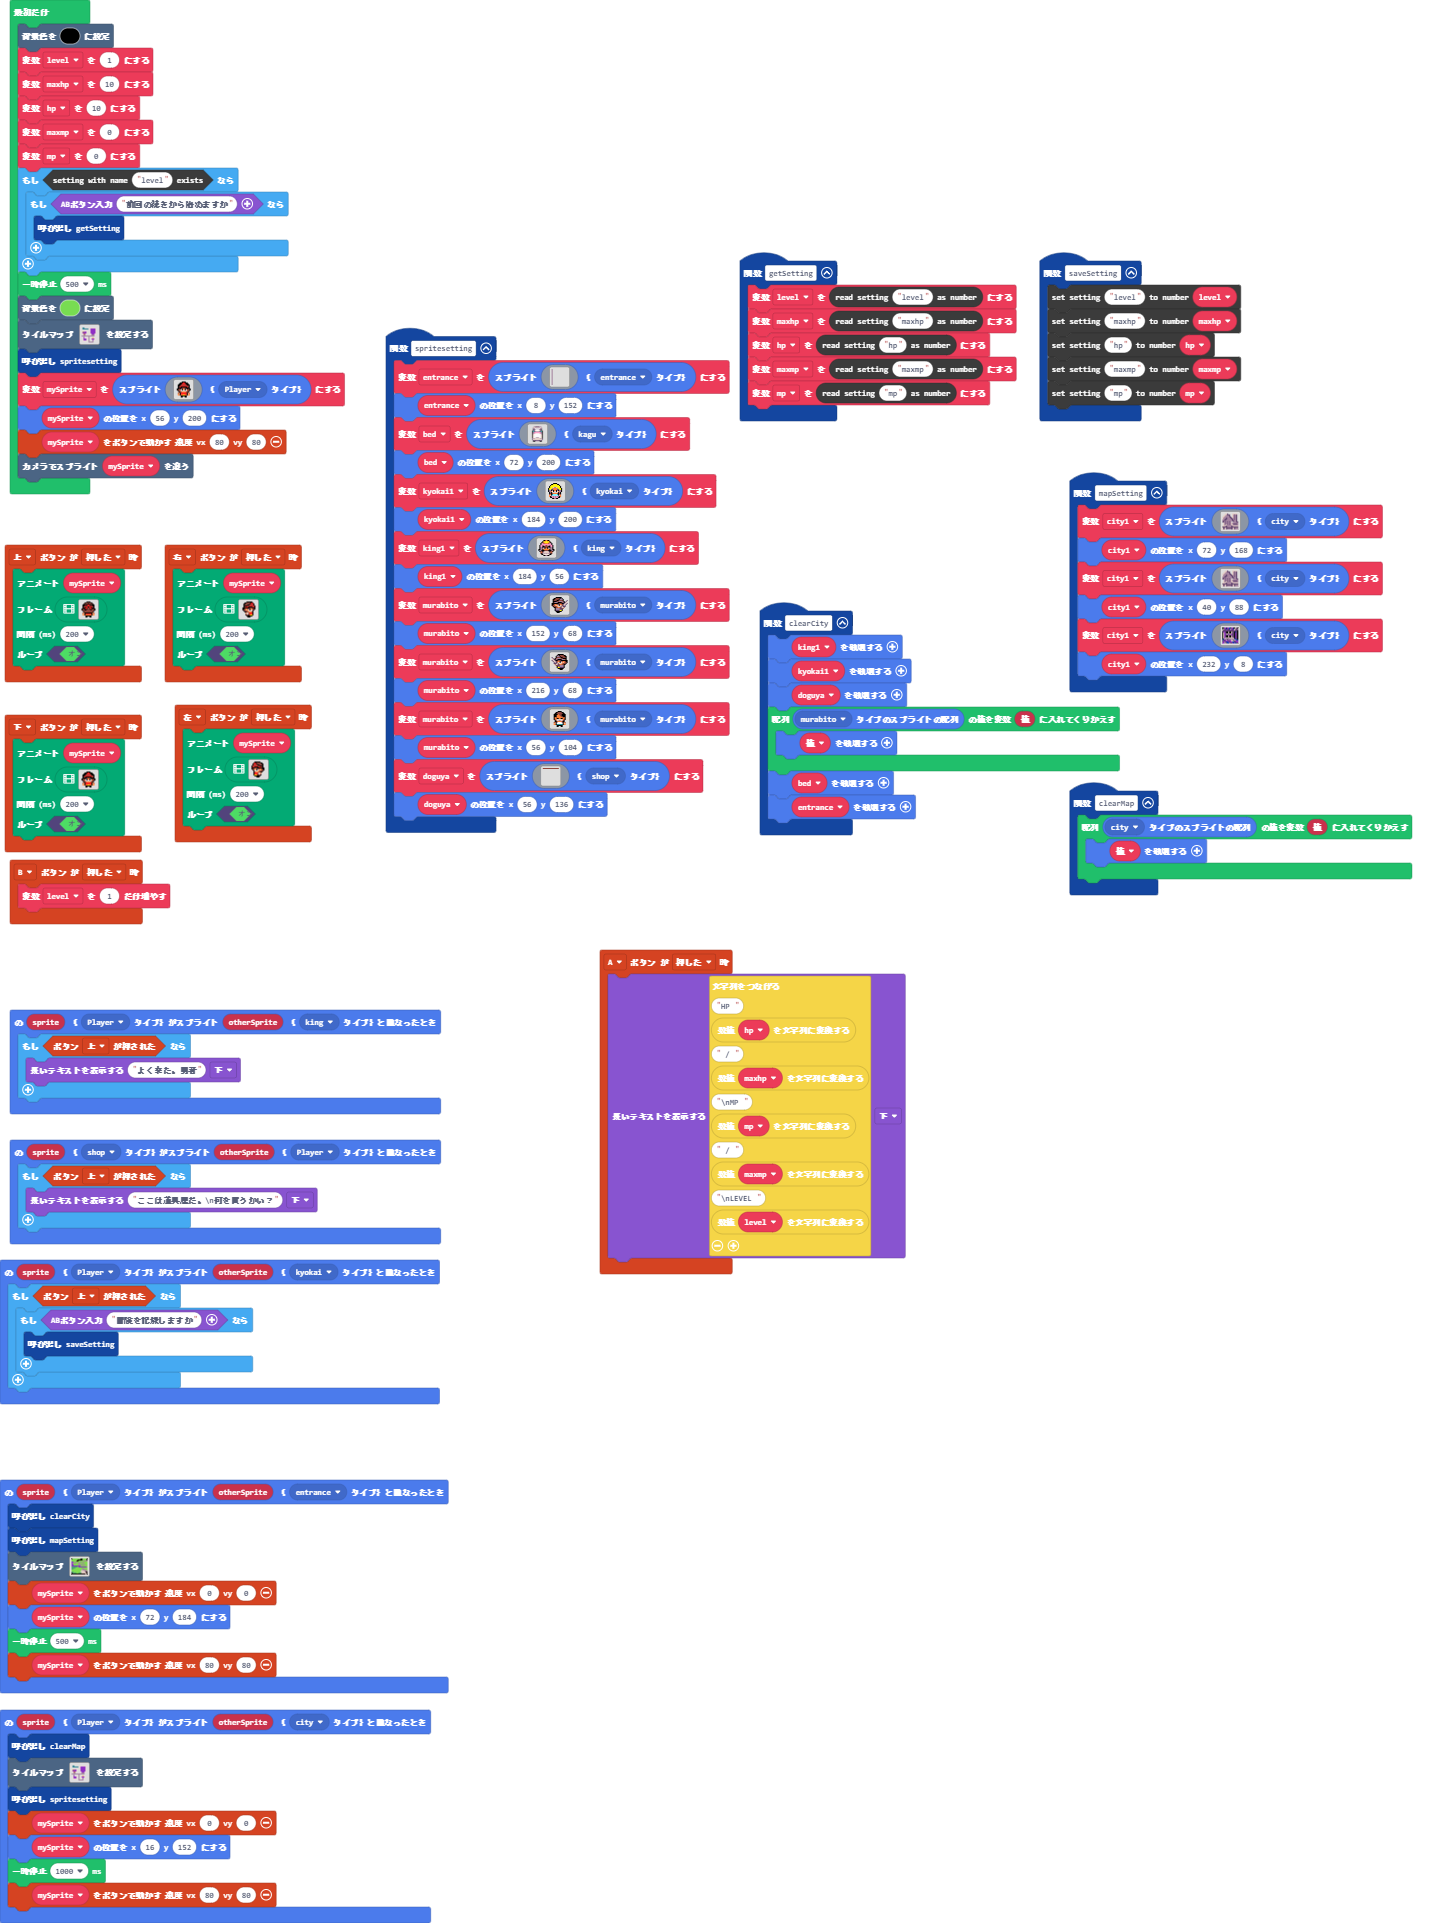
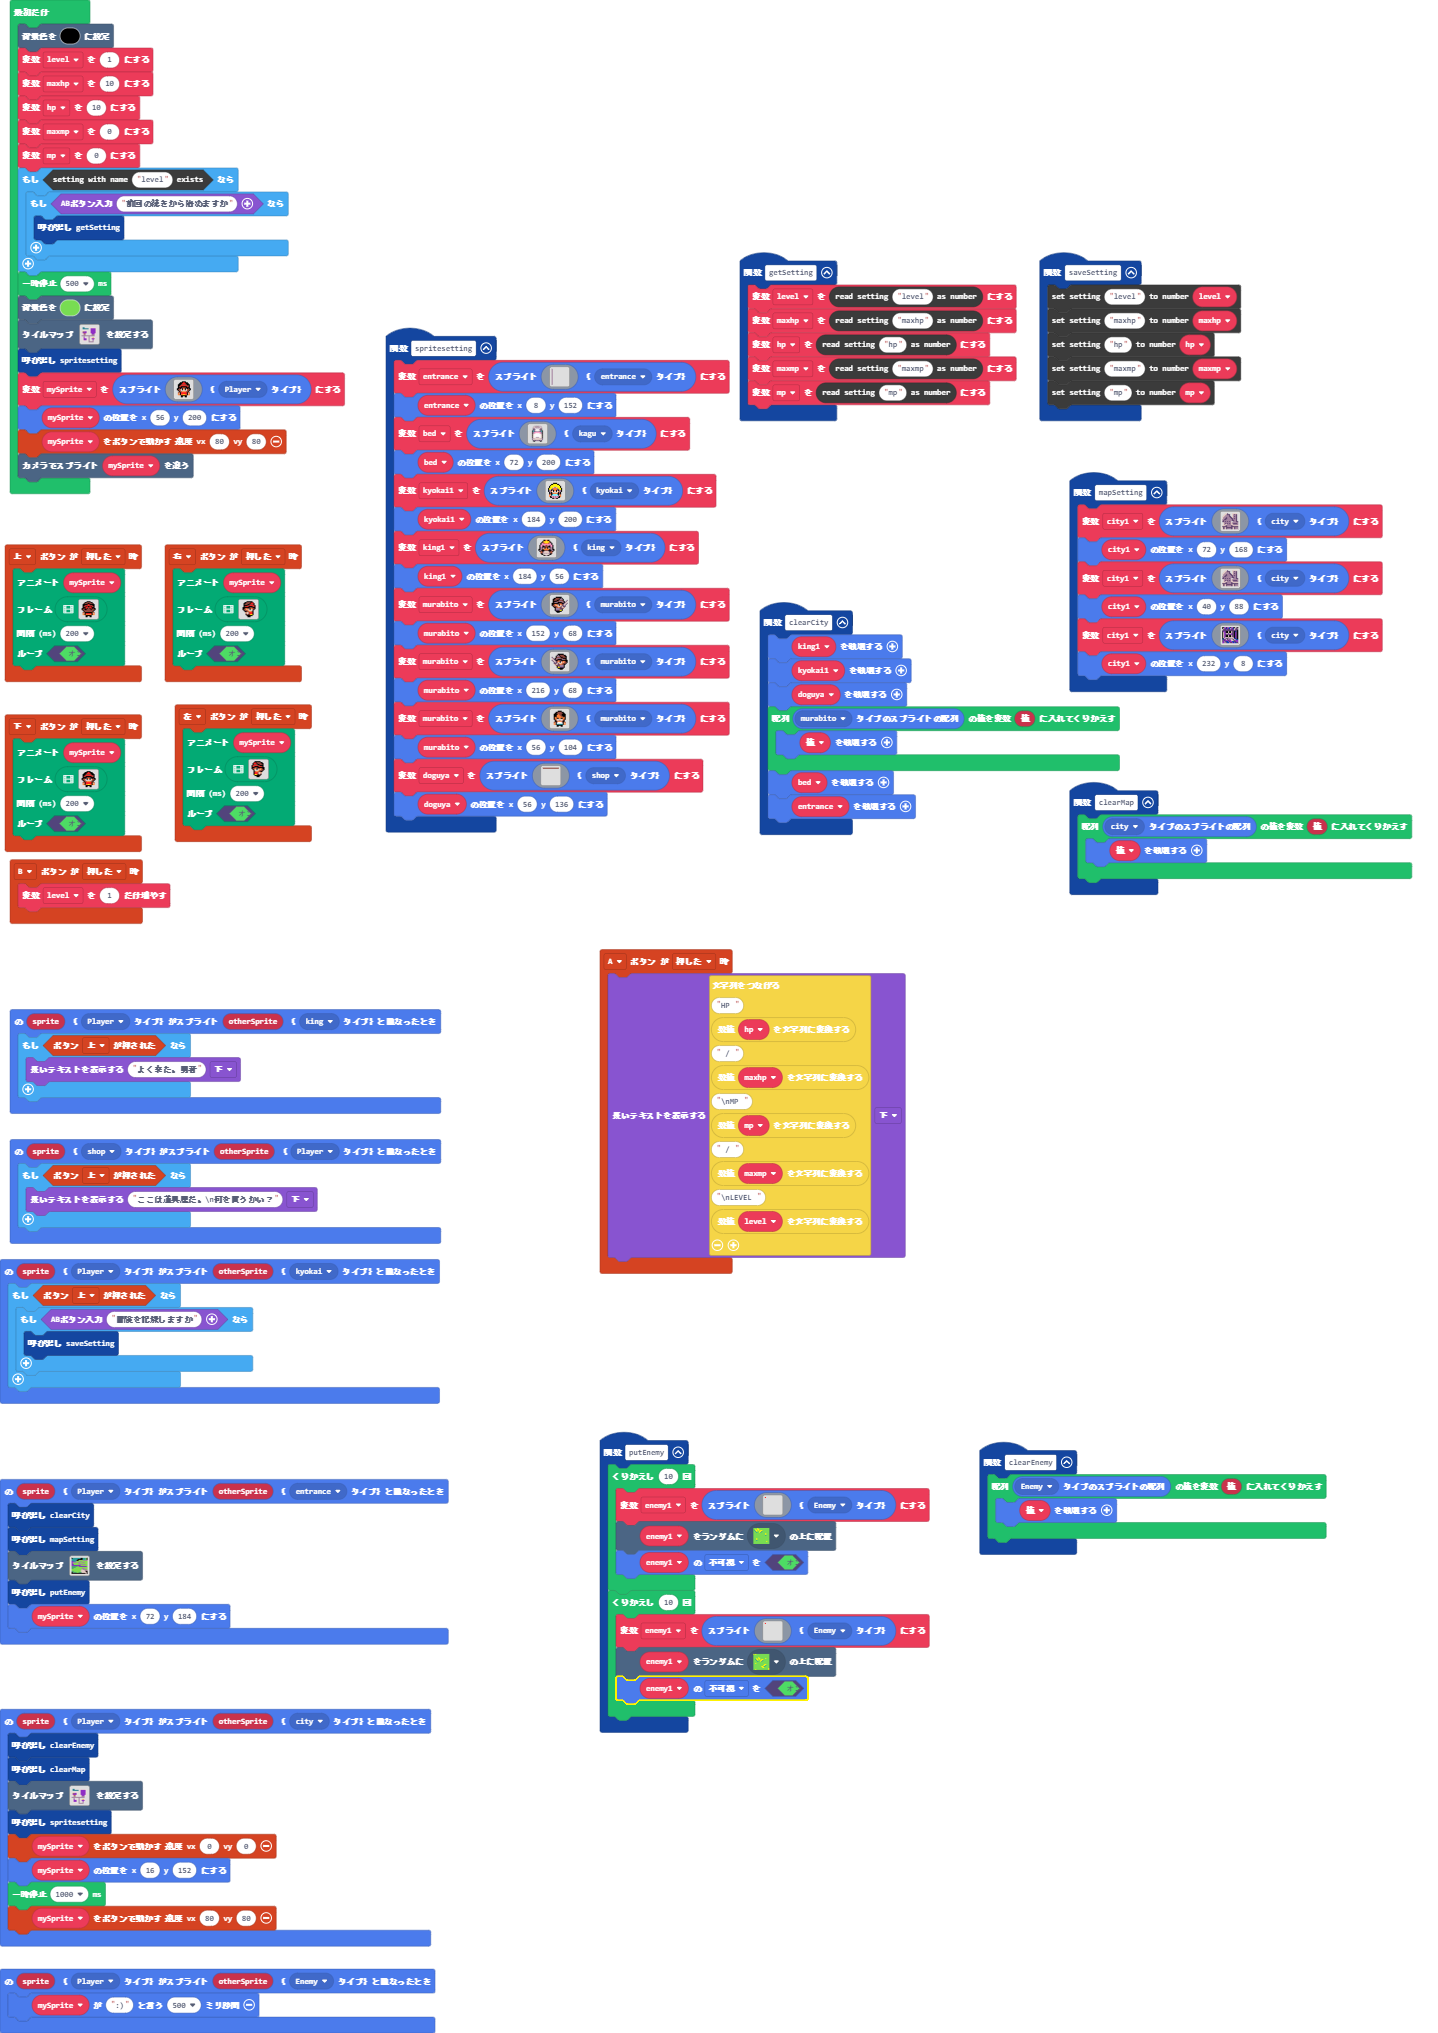
更新 main.blocks, main.ts, tilemap.g.jres, tilemap.g.ts

Changed region(s): [[0.0, 0.0, 0.9791, 1.0], [0.3978, 0.468, 0.6426, 0.8736], [0.6732, 0.6864, 0.9179, 0.78]]

diff --git a/tilemap.g.ts b/tilemap.g.ts
@@ -49,8 +49,27 @@ namespace myTiles {
 . . . . . . . . . . . . . . . . 
 . . . . . . . . . . . . . . . . 
 `, [myTiles.transparency16], TileScale.Sixteen);
+            case "レベル4":
+            case "レベル4":return tiles.createTilemap(hex`1000100000000000000000000000000000000000000000000000000000000000000000000000000000000000000000000000000000000000000000000000000000000000000000000000000000000000000000000000000000000000000000000000000000000000000000000000000000000000000000000000000000000000000000000000000000000000000000000000000000000000000000000000000000000000000000000000000000000000000000000000000000000000000000000000000000000000000000000000000000000000000000000000000000000000000000000000000000000000000000000000000000000000000000000000000000000000`, img`
+. . . . . . . . . . . . . . . . 
+. . . . . . . . . . . . . . . . 
+. . . . . . . . . . . . . . . . 
+. . . . . . . . . . . . . . . . 
+. . . . . . . . . . . . . . . . 
+. . . . . . . . . . . . . . . . 
+. . . . . . . . . . . . . . . . 
+. . . . . . . . . . . . . . . . 
+. . . . . . . . . . . . . . . . 
+. . . . . . . . . . . . . . . . 
+. . . . . . . . . . . . . . . . 
+. . . . . . . . . . . . . . . . 
+. . . . . . . . . . . . . . . . 
+. . . . . . . . . . . . . . . . 
+. . . . . . . . . . . . . . . . 
+. . . . . . . . . . . . . . . . 
+`, [myTiles.transparency16], TileScale.Sixteen);
             case "レベル2":
[2 lines of base64/hex data omitted]
 2 . . . . . . . . 2 2 . . . . 2 
 . . . . . . 2 2 2 2 2 . . . . 2 
 . . . . . 2 2 . . . . 2 2 2 2 2 
@@ -67,7 +86,7 @@ namespace myTiles {
 . . . . . . . . . . . . . . 2 2 
 2 . . . . . . . . . . . . . . 2 
 2 2 2 2 2 2 2 2 2 2 2 2 2 2 . 2 
-`, [myTiles.transparency16,sprites.swamp.swampTile7,sprites.swamp.swampTile8,sprites.swamp.swampTile12,sprites.swamp.swampTile9,sprites.dungeon.stairNorth,sprites.castle.tileGrass1,sprites.castle.tileGrass3,sprites.castle.tilePath5,sprites.castle.rock0,sprites.swamp.swampTile5,sprites.swamp.swampTile6,myTiles.tile3,sprites.builtin.forestTiles0,sprites.builtin.forestTiles1,sprites.builtin.forestTiles10,sprites.builtin.forestTiles5,sprites.builtin.forestTiles6,sprites.builtin.forestTiles4,sprites.castle.tilePath1,sprites.castle.tilePath4,sprites.builtin.forestTiles9,sprites.builtin.forestTiles7,sprites.builtin.forestTiles15,sprites.builtin.forestTiles13,sprites.builtin.forestTiles11], TileScale.Sixteen);
+`, [myTiles.transparency16,sprites.swamp.swampTile7,sprites.swamp.swampTile8,sprites.swamp.swampTile12,sprites.swamp.swampTile9,sprites.dungeon.stairNorth,sprites.castle.tileGrass1,sprites.castle.tilePath5,sprites.castle.rock0,sprites.swamp.swampTile5,sprites.swamp.swampTile6,myTiles.tile3,sprites.builtin.forestTiles0,sprites.builtin.forestTiles1,sprites.builtin.forestTiles10,sprites.builtin.forestTiles5,sprites.builtin.forestTiles6,sprites.builtin.forestTiles4,sprites.castle.tilePath1,sprites.castle.tilePath4,sprites.builtin.forestTiles9,sprites.builtin.forestTiles7,sprites.builtin.forestTiles15,sprites.builtin.forestTiles13,sprites.builtin.forestTiles11,sprites.skillmap.islandTile4,sprites.castle.tileGrass3,sprites.castle.tileDarkGrass3,sprites.castle.tileDarkGrass1], TileScale.Sixteen);
         }
         return null;
     })

diff --git a/main.ts b/main.ts
@@ -90,6 +90,52 @@ function getSetting () {
     maxmp = blockSettings.readNumber("maxmp")
     mp = blockSettings.readNumber("mp")
 }
+function putEnemy () {
+    for (let index = 0; index < 10; index++) {
+        enemy1 = sprites.create(img`
+            2 . . . . . . . . . . . . . . . 
+            . . . . . . . . . . . . . . . . 
+            . . . . . . . . . . . . . . . . 
+            . . . . . . . . . . . . . . . . 
+            . . . . . . . . . . . . . . . . 
+            . . . . . . . . . . . . . . . . 
+            . . . . . . . . . . . . . . . . 
+            . . . . . . . . . . . . . . . . 
+            . . . . . . . . . . . . . . . . 
+            . . . . . . . . . . . . . . . . 
+            . . . . . . . . . . . . . . . . 
+            . . . . . . . . . . . . . . . . 
+            . . . . . . . . . . . . . . . . 
+            . . . . . . . . . . . . . . . . 
+            . . . . . . . . . . . . . . . . 
+            . . . . . . . . . . . . . . . . 
+            `, SpriteKind.Enemy)
+        tiles.placeOnRandomTile(enemy1, sprites.castle.tileGrass1)
+        enemy1.setFlag(SpriteFlag.Invisible, true)
+    }
+    for (let index = 0; index < 10; index++) {
+        enemy1 = sprites.create(img`
+            2 . . . . . . . . . . . . . . . 
+            . . . . . . . . . . . . . . . . 
+            . . . . . . . . . . . . . . . . 
+            . . . . . . . . . . . . . . . . 
+            . . . . . . . . . . . . . . . . 
+            . . . . . . . . . . . . . . . . 
+            . . . . . . . . . . . . . . . . 
+            . . . . . . . . . . . . . . . . 
+            . . . . . . . . . . . . . . . . 
+            . . . . . . . . . . . . . . . . 
+            . . . . . . . . . . . . . . . . 
+            . . . . . . . . . . . . . . . . 
+            . . . . . . . . . . . . . . . . 
+            . . . . . . . . . . . . . . . . 
+            . . . . . . . . . . . . . . . . 
+            . . . . . . . . . . . . . . . . 
+            `, SpriteKind.Enemy)
+        tiles.placeOnRandomTile(enemy1, sprites.castle.tileGrass3)
+        enemy1.setFlag(SpriteFlag.Invisible, true)
+    }
+}
 function spritesetting () {
     entrance = sprites.create(img`
         b . . . . . . . . . . . . . . . 
@@ -256,10 +302,8 @@ sprites.onOverlap(SpriteKind.Player, SpriteKind.entrance, function (sprite, othe
     clearCity()
     mapSetting()
     tiles.setTilemap(tilemap`レベル2`)
-    controller.moveSprite(mySprite, 0, 0)
+    putEnemy()
     mySprite.setPosition(72, 184)
-    pause(500)
-    controller.moveSprite(mySprite, 80, 80)
 })
 controller.down.onEvent(ControllerButtonEvent.Pressed, function () {
     animation.runImageAnimation(
@@ -550,6 +594,7 @@ function clearMap () {
     }
 }
 sprites.onOverlap(SpriteKind.Player, SpriteKind.city, function (sprite, otherSprite) {
+    clearEnemy()
     clearMap()
     tiles.setTilemap(tilemap`レベル1`)
     spritesetting()
@@ -558,12 +603,20 @@ sprites.onOverlap(SpriteKind.Player, SpriteKind.city, function (sprite, otherSpr
     pause(1000)
     controller.moveSprite(mySprite, 80, 80)
 })
+function clearEnemy () {
+    for (let 値 of sprites.allOfKind(SpriteKind.Enemy)) {
+        値.destroy()
+    }
+}
 sprites.onOverlap(SpriteKind.Player, SpriteKind.kyokai, function (sprite, otherSprite) {
     if (controller.up.isPressed()) {
         if (game.ask("冒険を記録しますか")) {
             saveSetting()
         }
     }
+})
+sprites.onOverlap(SpriteKind.Player, SpriteKind.Enemy, function (sprite, otherSprite) {
+    mySprite.say(":)", 500)
 })
 controller.A.onEvent(ControllerButtonEvent.Pressed, function () {
     game.showLongText("HP " + convertToText(hp) + " / " + convertToText(maxhp) + "\\nMP " + convertToText(mp) + " / " + convertToText(maxmp) + "\\nLEVEL " + convertToText(level), DialogLayout.Bottom)
@@ -575,6 +628,7 @@ let king1: Sprite = null
 let kyokai1: Sprite = null
 let bed: Sprite = null
 let entrance: Sprite = null
+let enemy1: Sprite = null
 let mySprite: Sprite = null
 let mp = 0
 let maxmp = 0
